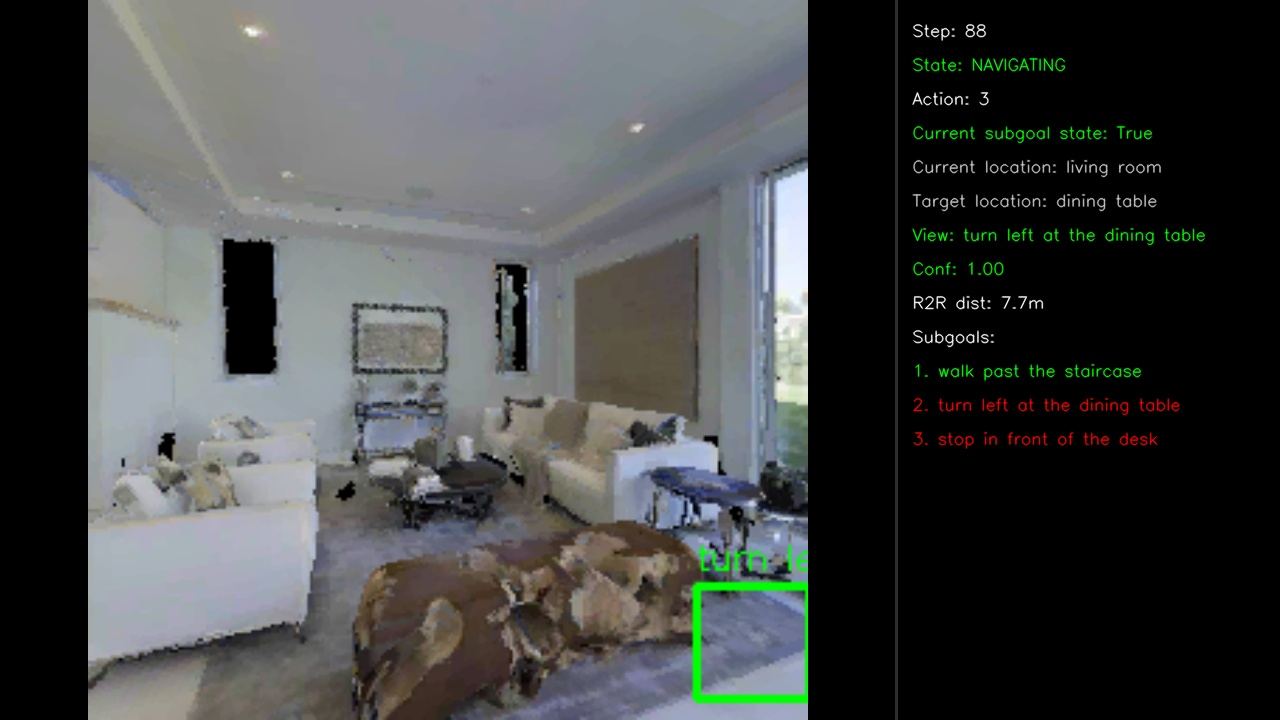
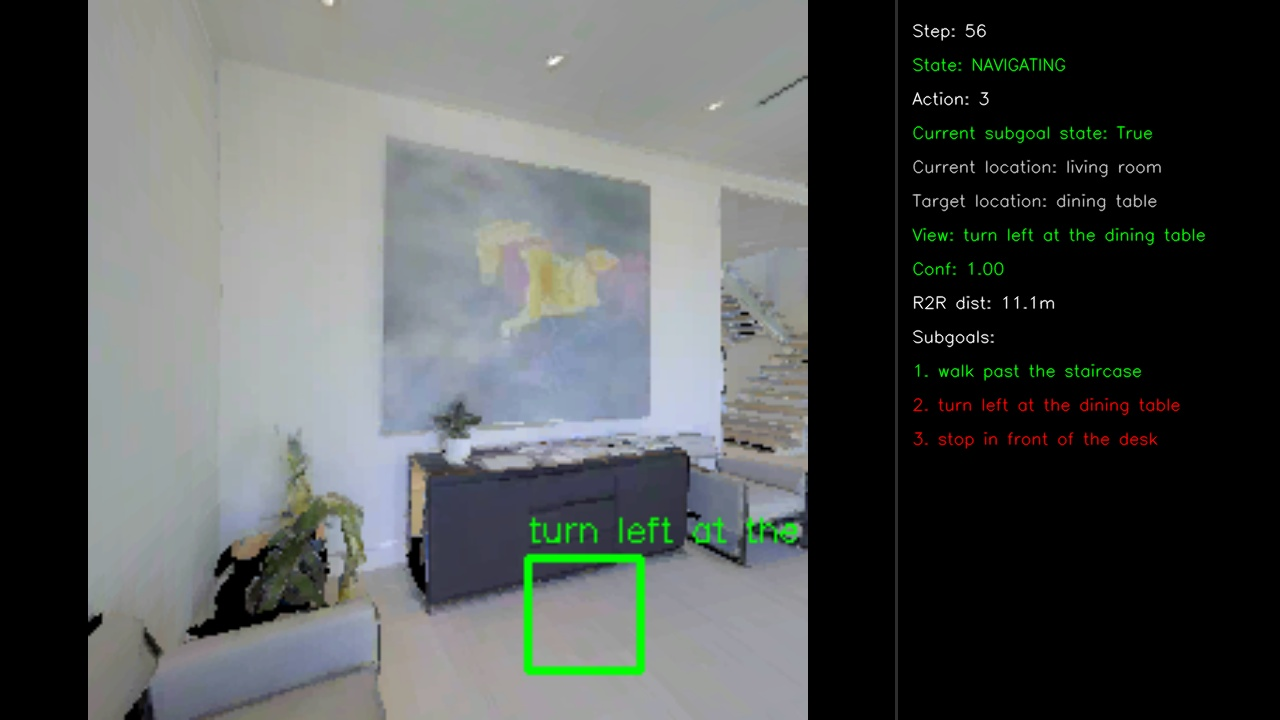
fix path live image

diff --git a/pipeline1/closed_loop/config.py b/pipeline1/closed_loop/config.py
@@ -31,8 +31,8 @@ TURN_RIGHT = 3
 MOVE_FWD = 1
 STOP = 0
 
-LIVE_PREVIEW_PATH = "/home/dungtn21/InternNav/pipeline1/live_view.jpg"
-VIDEO_OUTPUT_DIR = "/home/dungtn21/InternNav/pipeline1"
+LIVE_PREVIEW_PATH = "./pipeline1/live_view.jpg"
+VIDEO_OUTPUT_DIR = "./pipeline1"
 
 EXPLORE_DESC = "the most open, unobstructed path forward toward the destination"
 
